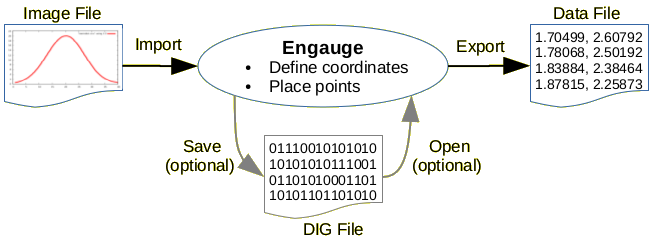
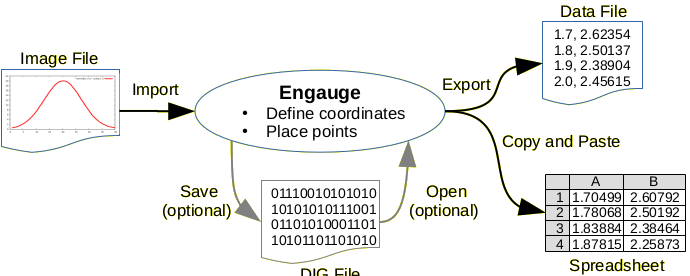
Add copy+paste to flowchart and text

diff --git a/index.html b/index.html
@@ -89,17 +89,19 @@
 	  </div>
 	  <div style="clear: both"></div>	  
 	  <p>
-	    The Engauge Digitizer tool accepts image files (like PNG, JPEG and TIFF) containing graphs, and recovers the data points from those graphs. The resulting
-	    data points are usually used as input to other software applications. Conceptually, Engauge Digitizer is the opposite of a graphing tool that converts data 
-	    points to graphs. The process is shown below - an image file is imported, digitized within Engauge, and exported as a table of numeric data to a text file. 
-	    Work can be saved into an Engauge DIG file.
+	    The Engauge Digitizer tool accepts image files (like PNG, JPEG and TIFF) containing graphs, and recovers the
+	    data points from those graphs. The resulting data points are usually used as input to other software applications.
+	    Conceptually, Engauge Digitizer is the opposite of a graphing tool that converts data points to graphs. The process
+	    is shown below - an image file is imported and then digitized within Engauge by placing points along each curve.
+	    Data points can be transferred to other software applications by exporting to a text file, or directly using copy and
+	    paste. Work can be saved into an Engauge DIG file for later editing.
 	  </p>
 	  <p>
-	    <img width="657" height="242" src="images/ProcessFlowchart.png" alt="process flowchart" />
+	    <img width="690" height="276" src="images/ProcessFlowchart.png" alt="process flowchart" />
 	  </p>
 	  <p>
-	    Engauge users range from one-time users digitizing a single image file, to large government and commercial organizations managing
-	    databases of thousands of image files.
+	    Engauge users range from one-time users digitizing a single image file, to large government and commercial
+	    organizations managing databases of thousands of image files.
 	  </p>
 	  <p>
 	    Interested in translating Engauge to another language? We welcome translations of file translations/engauge.ts to 
@@ -164,7 +166,13 @@
 	    <p>Engauge Digitizer is distributed with most Linux distributions and through the Mac App Store.
 	      <a href="https://github.com/markummitchell/engauge-digitizer/releases">Releases</a> are also available for 
 	      Linux, OSX and Windows operating systems as downloads:</p>
-            <ul>
+	      <ul>
+		<li>
+		  <p>Version 11.2 (5/1/2019) fixes jpeg2000 build, and crash during export when a curve has no points</p>
+		</li>		  
+		<li>
+		  <p>Version 11.1 (4/21/2019) has fix for point match tool</p>
+		</li>
 	      <li>
 		<p>Version 11 (4/19/2019) has an option to export points at grid lines, with optional extrapolation past the
 		endpoints</p>
